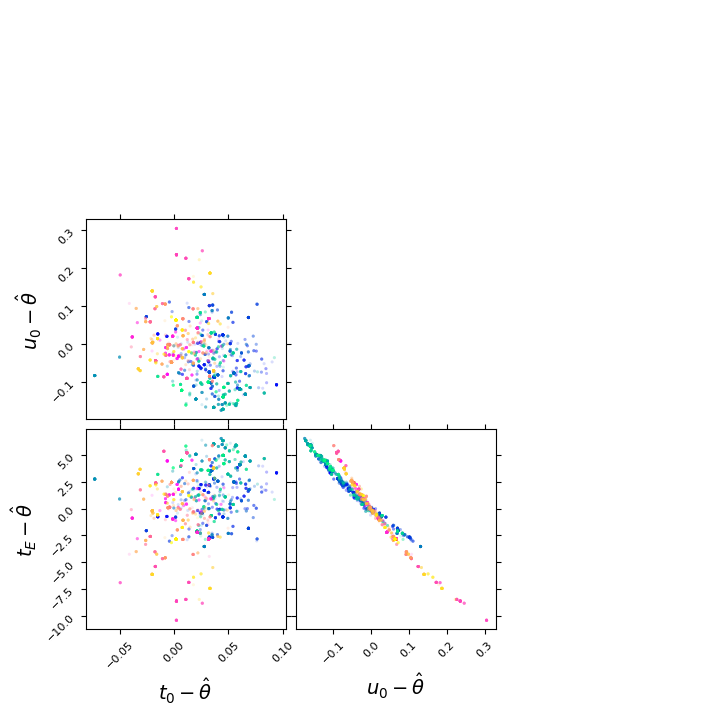
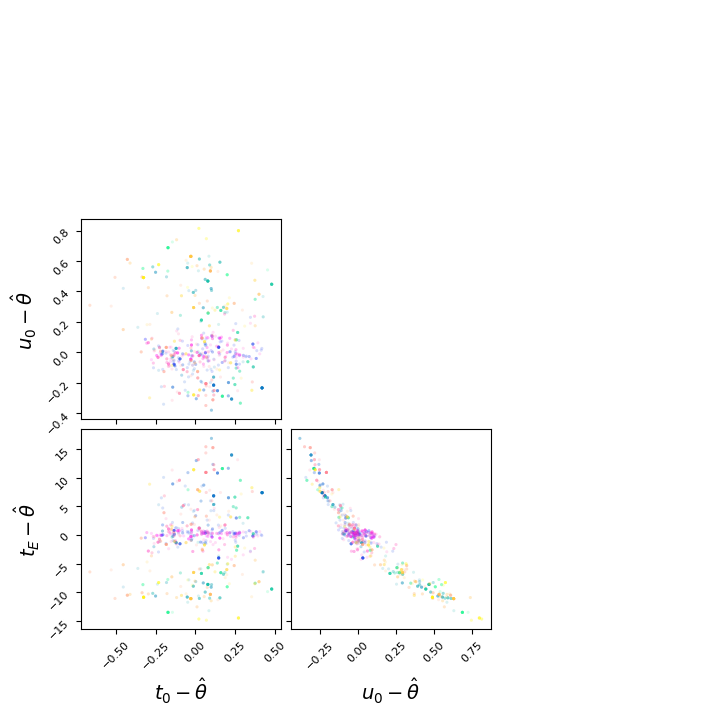
ac for pm over time

diff --git a/ReversibleJump.py b/ReversibleJump.py
@@ -43,16 +43,16 @@ from pathlib import Path
 suite_n = 0
 
 adaptive_warmup_iterations = 25 # mcmc steps without adaption
-adaptive_iterations = 975 # mcmc steps with adaption
+adaptive_iterations = 175 # mcmc steps with adaption
 warmup_loops = 1 # times to repeat mcmc optimisation of centers to try to get better estimate
-iterations = 10000 # rjmcmc steps
+iterations = 1000 # rjmcmc steps
 
 n_epochs = 720
 epochs = np.linspace(0, 72, n_epochs + 1)[:n_epochs]
 
-signal_to_noise_baseline = 230#(230-23)/2 + 23 # np.random.uniform(23.0, 230.0) # lower means noisier
+signal_to_noise_baseline = 23#(230-23)/2 + 23 # np.random.uniform(23.0, 230.0) # lower means noisier
 
-n_points = 2 # density for posterior contour plot
+n_points = 10 # density for posterior contour plot
 n_sampled_curves = 5 # sampled curves for viewing distribution of curves
 
 uniform_priors = False 
@@ -109,8 +109,9 @@ def Suite(suite_n):
     model_parameter_suite = [ # in the order fs, t0, u0, tE, rho, q, s, alpha
         [36, 0.83, 31.5], # 0 single
         [36, 0.83, 31.5, 0.00225, 1.27, 210.8], # 1 weak binary 0.0023
-        [36, 0.1, 36, 0.8, 0.25, 123]] # 2 caustic crossing binary
-    model_type_suite = [0, 1, 1] # model type associated with synethic event suite above
+        [36, 0.83, 31.5, 0.00325, 1.27, 210.8], # 2 weak binary 0.0023
+        [36, 0.1, 36, 0.8, 0.25, 123]] # 3 caustic crossing binary
+    model_type_suite = [0, 1, 1, 1] # model type associated with synethic event suite above
 
 
     light_curve_type = model_type_suite[suite_n]
@@ -143,6 +144,7 @@ def Suite(suite_n):
         single_center_suite = [ # in the order fs, t0, u0, tE, rho, q, s, alpha
         [36, 0.83, 31.5], # 0 single
         [36, 0.83, 31.5], # 1 weak binary
+        [36, 0.83, 31.5],
         [36, 0.1, 36]]
 
         single_center = single_center_suite[suite_n]
@@ -151,6 +153,7 @@ def Suite(suite_n):
         binary_center_suite = [ # in the order fs, t0, u0, tE, rho, q, s, alpha
         [36, 0.83, 31.5, 0.00001, 1.27, 210.8], # 0 single
         [36, 0.83, 31.5, 0.00225, 1.27, 210.8], # 1 weak binary
+        [36, 0.83, 31.5, 0.00325, 1.27, 210.8], # 2
         [36, 0.1, 36, 0.8, 0.25, 123]] 
 
         binary_center = binary_center_suite[suite_n]
@@ -177,7 +180,7 @@ def Run(run_name, adaptive_warmup_iterations, adaptive_iterations, warmup_loops,
     single_covariance = np.zeros((f.D(0), f.D(0)))
     np.fill_diagonal(single_covariance, np.multiply(covariance_scale, [0.1, 0.01, 0.1]))
     binary_covariance = np.zeros((f.D(1), f.D(1)))
-    np.fill_diagonal(binary_covariance, np.multiply(covariance_scale, [0.1, 0.01, 0.1, 0.1, 0.01, 10]))
+    np.fill_diagonal(binary_covariance, np.multiply(covariance_scale, [0.1, 0.01, 0.1, 0.01, 0.01, 1]))
 
     start_time = (time.time())
 
@@ -232,18 +235,23 @@ def Run(run_name, adaptive_warmup_iterations, adaptive_iterations, warmup_loops,
 
     auxiliary_states = np.array(auxiliary_states)
 
+
+    chain_ps = np.zeros((iterations))
+    for i in range(iterations):
+        chain_ps[i] = np.sum(chain_ms[:i])/(i+1)
+
     # truncate once m below 50 auto correlation times
     if truncate == True:
         n_ac = 25
         N = np.exp(np.linspace(np.log(int(iterations/n_ac)), np.log(iterations), n_ac)).astype(int)
 
-        ac_time_m = np.zeros(len(N))
-        y_m = np.array(chain_ms)
+        ac_time_ps = np.zeros(len(N))
+        y_ps = np.array(chain_ps)
 
         for i, n in enumerate(N):
-            ac_time_m[i] = MC.autocorr.integrated_time(y_m[:n], c = 5, tol = 5, quiet = True)
+            ac_time_ps[i] = MC.autocorr.integrated_time(y_ps[:n], c = 5, tol = 5, quiet = True)
             
-            if ac_time_m[i] < N[i]/50: # linearly interpolate truncation point
+            if ac_time_ps[i] < N[i]/50: # linearly interpolate truncation point
                 #if i == 0:
                 truncated = N[i]
                 #else:
@@ -274,14 +282,14 @@ def Run(run_name, adaptive_warmup_iterations, adaptive_iterations, warmup_loops,
 
 
     # again for m
-    ac_time_m = np.zeros(len(N))
-    y_m = np.array(chain_ms)
+    ac_time_ps = np.zeros(len(N))
+    y_ps = np.array(chain_ps)
 
     for i, n in enumerate(N):
 
-        ac_time_m[i] = MC.autocorr.integrated_time(y_m[:n], c = 5, tol = 5, quiet = True, )
+        ac_time_ps[i] = MC.autocorr.integrated_time(y_ps[:n], c = 5, tol = 5, quiet = True, )
 
-    plt.loglog(N, ac_time_m, "o-b", label=r"$M$",  linewidth = 2, markersize = 5)
+    plt.loglog(N, ac_time_ps, "o-b", label=r"$P$",  linewidth = 2, markersize = 5)
 
 
     # plot details
@@ -445,16 +453,24 @@ def Run(run_name, adaptive_warmup_iterations, adaptive_iterations, warmup_loops,
 
 
     # plot of model index trace
-    plt.plot(np.linspace(truncated, iterations, num = iterations - truncated ), chain_ms[truncated:] + 1, linewidth = 0.25)
+    plt.plot(np.linspace(0, iterations, num = iterations), chain_ms + 1, linewidth = 0.25)
     #plt.title('RJMH Model Trace')
     plt.xlabel('Iterations')
     plt.ylabel('Model Index')
     plt.locator_params(axis = "y", nbins = 2) # only two ticks
     plt.tight_layout()
-    plt.savefig('Plots/M-Trace.png')
+    plt.savefig('results/'+run_name+'M-Trace.png')
     plt.clf()
 
-
+    # plot of model index trace
+    plt.plot(np.linspace(0, iterations, num = iterations), chain_ps, linewidth = 0.25, color='purple')
+    #plt.title('RJMH Model Trace')
+    plt.xlabel('Iterations')
+    plt.ylabel('P')
+    #plt.locator_params(axis = "y", nbins = 2) # only two ticks
+    plt.tight_layout()
+    plt.savefig('results/'+run_name+'P-Trace.png')
+    plt.clf()
 
     # begin corner plots
     # note that these destroy the style environment (plot these last)
@@ -486,13 +502,16 @@ def Run(run_name, adaptive_warmup_iterations, adaptive_iterations, warmup_loops,
 #    truncate, true_theta, binary_true, single_true, data, priors, binary_center, single_center)
 
 
-true_theta, binary_true, single_true, data, binary_center, single_center = Suite(1)
-Run('2/', adaptive_warmup_iterations, adaptive_iterations, warmup_loops, iterations,\
+#true_theta, binary_true, single_true, data, binary_center, single_center = Suite(1)
+#Run('2/', adaptive_warmup_iterations, adaptive_iterations, warmup_loops, iterations,\
+#    truncate, true_theta, binary_true, single_true, data, priors, binary_center, single_center)
+
+true_theta, binary_true, single_true, data, binary_center, single_center = Suite(2)
+Run('3/', adaptive_warmup_iterations, adaptive_iterations, warmup_loops, iterations,\
     truncate, true_theta, binary_true, single_true, data, priors, binary_center, single_center)
 
-
-#true_theta, binary_true, single_true, data, binary_center, single_center = Suite(2)
-#Run('3/', adaptive_warmup_iterations, adaptive_iterations, warmup_loops, iterations,\
+#true_theta, binary_true, single_true, data, binary_center, single_center = Suite(3)
+#Run('4/', adaptive_warmup_iterations, adaptive_iterations, warmup_loops, iterations,\
 #    truncate, true_theta, binary_true, single_true, data, priors, binary_center, single_center)
 
 

diff --git a/light-curve-test.py b/light-curve-test.py
@@ -2,7 +2,7 @@
 # Part 4 Project, RJMCMC for Microlensing
 # [Lightcurve plotting]
 
-from interfaceing import get_model_centers, get_posteriors
+#from interfaceing import get_model_centers, get_posteriors
 from os import error
 from numpy.core.defchararray import title
 from numpy.core.fromnumeric import size
@@ -51,7 +51,31 @@ theta_r = [36, 0.133, 61.5, 0.009, 1.10, 180]
 pltf.PlotLightcurve(1, theta_r, r"$\uparrow q$", "red", 1, False, ts)
 plt.savefig('temp.png')
 plt.clf()
-throw=throw
+#throw=throw
+
+if True:
+
+    ts = [0, 72]
+
+    pltf.PlotLightcurve(0, [36, 0.83, 31.5], r"$q=0$", "blue", 1, False, ts)
+
+    pltf.PlotLightcurve(1, [36, 0.83, 31.5, 0.00225, 1.27, 210.8], r"$q=0.0025$", "green", 1, False, ts)
+
+    pltf.PlotLightcurve(1, [36, 0.83, 31.5, 0.00325, 1.27, 210.8], r"$q=0.0035$", "yellow", 1, False, ts)
+
+    pltf.PlotLightcurve(1, [36, 0.83, 31.5, 0.1, 1.27, 210.8], r"$q=0.1$", "red", 1, False, ts)
+
+
+
+
+    plt.legend()
+
+    plt.xlabel('Time [days]')
+    plt.ylabel('Flux')
+
+    plt.tight_layout()
+    plt.savefig('Plots/qCurves.png')
+    plt.clf()
 
 
 if True:
